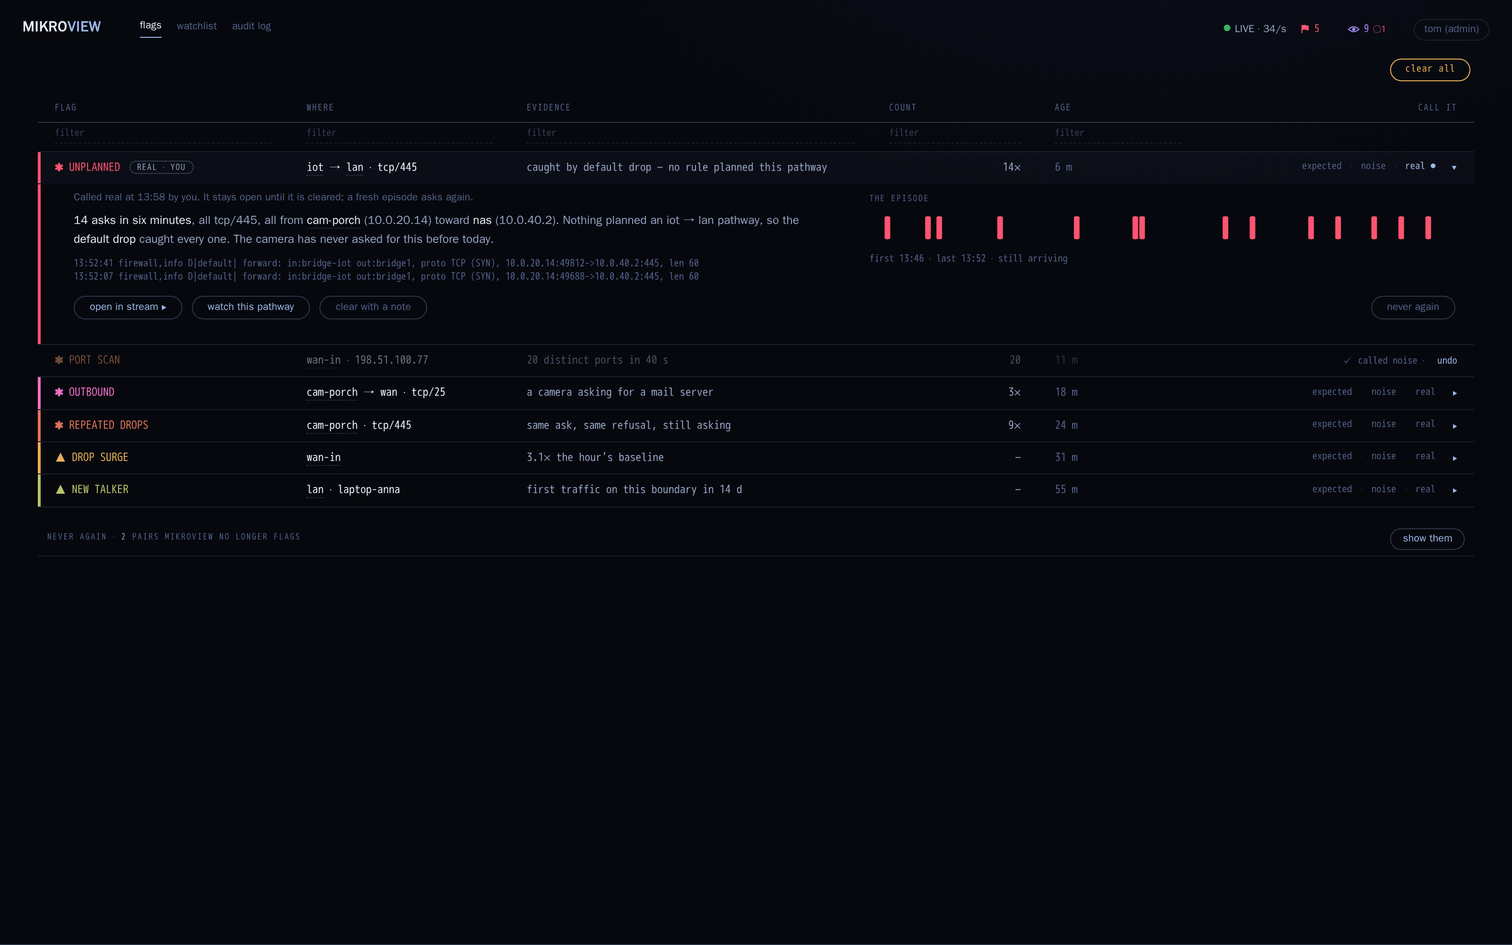
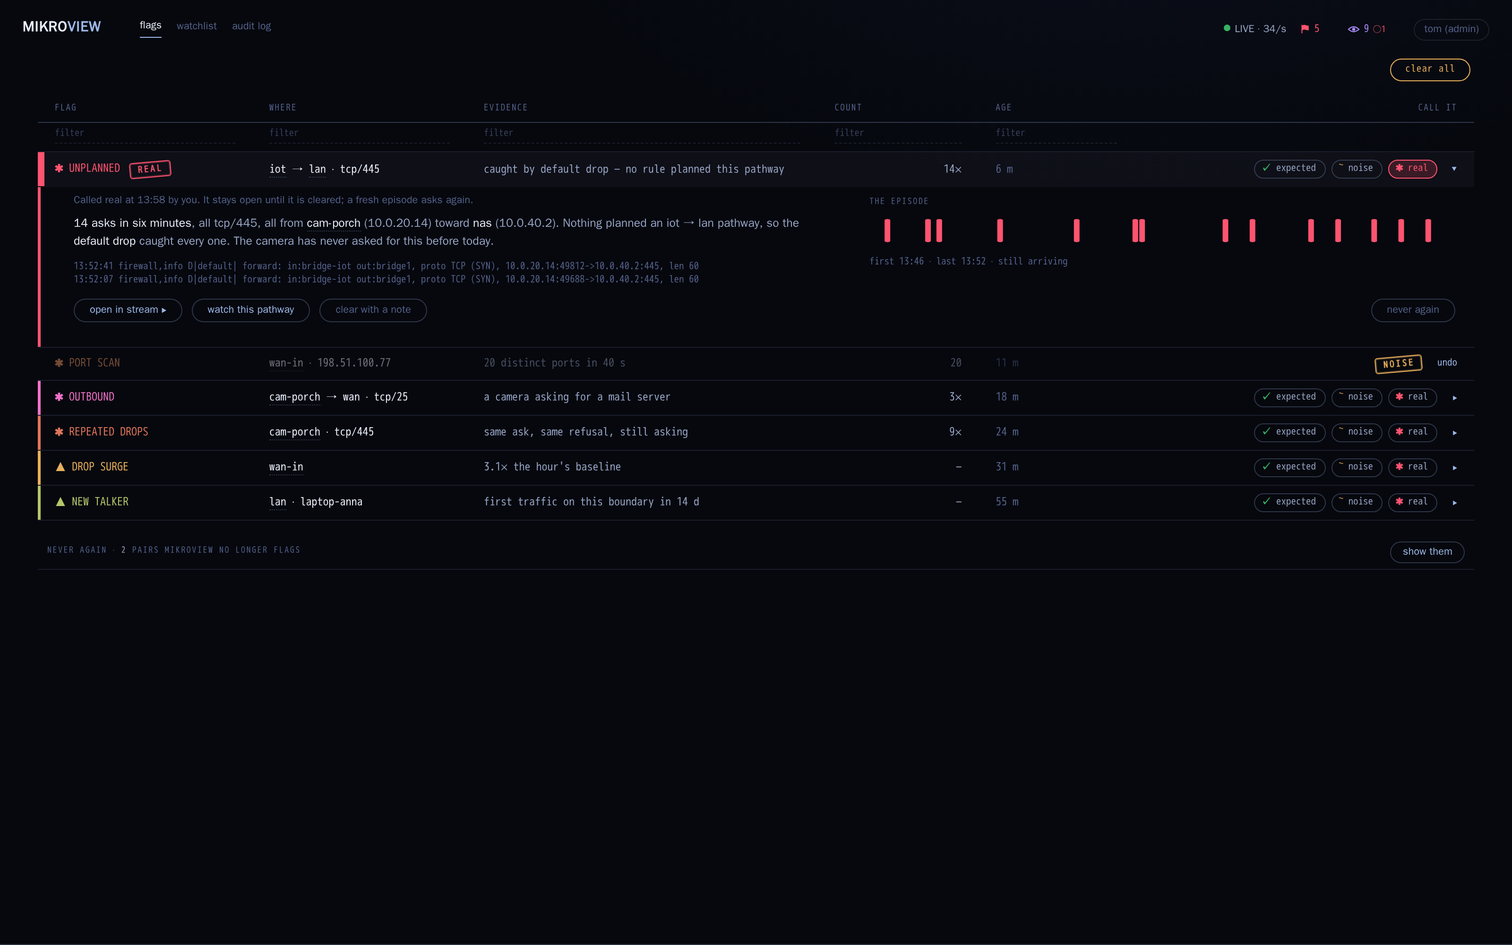
docs(design): round 35 — verdicts as glyph chips that land as stamps (#691)
Owner found the text verbs bland. Each verdict is now a chip in its own
ink (ok, now, alarm); a call thumps a tilted stamp onto the row in that
ink and flashes the row; real stamps beside the type and thickens the
row's bar; never again and cleared stamp in the quiet ink.

diff --git a/docs/design/concepts/round-35/verdicts-in-row.html b/docs/design/concepts/round-35/verdicts-in-row.html
@@ -658,17 +658,32 @@
      cleared; an exclusion is a verdict that outlives the flag
      ============================================================ */
   /* round 35: the verdict trio lives in the row, before the caret — one click, no drawer.
-     Three quiet verbs in the row's own mono, dot-separated like the chrome, lifted by the
-     row's hover and lit by the accent when chosen; no boxes — the docket speaks in text */
+     Three glyph chips in the verdict's own ink; a call lands as a stamp on the row */
   .panel td.vc { text-align: right; white-space: nowrap; }
-  .vrow { display: inline-flex; align-items: baseline; vertical-align: middle; margin-right: 18px; }
-  .vrow button.v { font: 10.5px var(--mono); color: var(--ink-3); background: transparent; border: 0; border-bottom: 1px dotted transparent; padding: 0; cursor: pointer; line-height: 16px; transition: color 0.15s; }
-  .vrow button.v + button.v::before { content: '·'; color: var(--ink-3); margin: 0 9px; opacity: 0.6; }
-  tr.frow:hover .vrow button.v { color: var(--ink-2); }
-  .vrow button.v:hover { color: var(--accent); border-bottom-color: var(--accent); }
-  .vrow button.v.on { color: var(--accent); }
-  .vrow button.v.on::after { content: ''; display: inline-block; width: 5px; height: 5px; border-radius: 50%; background: var(--accent); margin-left: 6px; vertical-align: 1px; }
   .panel th.vc { text-align: right; }
+  .vrow { display: inline-flex; gap: 6px; vertical-align: middle; margin-right: 16px; }
+  .vrow button.v { --vc: var(--ink-2); font: 10.5px var(--mono); color: var(--ink-2); background: transparent; border: 1px solid var(--hair-2); border-radius: 999px; padding: 1px 9px 1px 7px; cursor: pointer; line-height: 16px; transition: color 0.15s, border-color 0.15s, background 0.15s, transform 0.15s; }
+  .vrow button.v i { font-style: normal; color: var(--vc); margin-right: 5px; font-weight: 700; }
+  .vrow button.v.expected { --vc: var(--ok); }
+  .vrow button.v.noise { --vc: var(--now); }
+  .vrow button.v.real { --vc: var(--alarm); }
+  .vrow button.v:hover { color: var(--vc); border-color: var(--vc); background: color-mix(in srgb, var(--vc) 12%, transparent); transform: translateY(-1px); }
+  .vrow button.v.on { color: var(--vc); border-color: var(--vc); background: color-mix(in srgb, var(--vc) 18%, transparent); }
+  /* the stamp: a verdict pressed onto the docket in its own ink */
+  .stamp { --vc: var(--ink-3); display: inline-block; font: 800 9.5px var(--mono); letter-spacing: 0.2em; text-transform: uppercase; color: var(--vc); border: 1.5px solid var(--vc); border-radius: 3px; padding: 1px 7px 1px 8px; transform: rotate(-5deg); box-shadow: inset 0 0 0 1px color-mix(in srgb, var(--vc) 35%, transparent); animation: stamp-in 0.28s cubic-bezier(0.2, 1.6, 0.4, 1) both; vertical-align: middle; }
+  .stamp.expected { --vc: var(--ok); } .stamp.noise { --vc: var(--now); } .stamp.real { --vc: var(--alarm); }
+  @keyframes stamp-in { from { transform: rotate(-14deg) scale(2.1); opacity: 0; } 60% { opacity: 1; } to { transform: rotate(-5deg) scale(1); } }
+  /* the row takes the ink for a moment as the stamp lands */
+  tr.frow.struck td { animation: struck 0.7s ease-out both; }
+  @keyframes struck { from { background: color-mix(in srgb, var(--sc, var(--ink-3)) 16%, transparent); } }
+  tr.frow.struck.expected { --sc: var(--ok); } tr.frow.struck.noise { --sc: var(--now); } tr.frow.struck.real { --sc: var(--alarm); }
+  .vdone .by { color: var(--ink-3); margin-left: 8px; }
+  /* called real: the stamp sits by the type and the row's own bar thickens */
+  .fmark .stamp { margin-left: 10px; }
+  .fmark .by { font: 10.5px var(--mono); color: var(--ink-3); font-weight: 400; margin-left: 6px; }
+  tr.frow td:first-child { transition: box-shadow 0.35s ease; }
+  tr.frow.isreal td:first-child { box-shadow: inset 7px 0 0 var(--alarm) !important; }
+  @media (prefers-reduced-motion: reduce) { .stamp, tr.frow.struck td { animation: none; } .vrow button.v:hover { transform: none; } }
   .dwr-acts .never { margin-left: auto; }
   .dwr-acts .never.armed { color: var(--alarm); border-color: var(--alarm); }
   /* a flag that has been called: dims in place, keeps its row, offers undo until you leave the tab */
@@ -676,11 +691,10 @@
   tr.frow.fdone td:first-child { box-shadow: none !important; }
   tr.frow.fdone td:last-child { opacity: 1; }
   /* takes the trio's place in the same cell, so the columns never move for it */
-  .vdone { font: 10.5px var(--mono); color: var(--ink-3); white-space: nowrap; }
+  .vdone { font: 10.5px var(--mono); color: var(--ink-3); white-space: nowrap; display: inline-flex; align-items: center; gap: 8px; }
   .vdone a { color: var(--accent); cursor: pointer; margin-left: 8px; }
   .vdone a:hover { text-decoration: underline; }
   /* called real: stays open, and says so where the type is */
-  .fmark .real { font: 600 9px var(--mono); letter-spacing: 0.1em; text-transform: uppercase; color: var(--ink-2); border: 1px solid var(--hair-2); border-radius: 9px; padding: 0 7px; margin-left: 10px; vertical-align: 1px; }
   .story .called { display: block; color: var(--ink-3); font-size: 11px; margin-bottom: 6px; }
   /* the exclusions body: the type's ink is off — mikroview does not look at these */
   tr.fx .fmark { color: var(--ink-3) !important; }
@@ -723,7 +737,7 @@
     <table>
       <thead><tr><th>flag</th><th>where</th><th>evidence</th><th>count</th><th>age</th><th class="vc">call it</th></tr></thead>
       <tbody>
-        <tr class="frow ft-unplanned open" data-d="d1"><td class="fmark">✱ UNPLANNED</td><td class="k"><a class="wl" href="#s3" onclick="descend()">iot</a> → <a class="wl" href="#s3" onclick="descend()">lan</a> · tcp/445</td><td>caught by default drop — no rule planned this pathway</td><td class="num">14×</td><td class="t">6 m</td><td class="vc"><span class="vrow"><button class="v" data-v="expected">expected</button><button class="v" data-v="noise">noise</button><button class="v" data-v="real">real</button></span><span class="openc">▸</span></td></tr>
+        <tr class="frow ft-unplanned open" data-d="d1"><td class="fmark">✱ UNPLANNED</td><td class="k"><a class="wl" href="#s3" onclick="descend()">iot</a> → <a class="wl" href="#s3" onclick="descend()">lan</a> · tcp/445</td><td>caught by default drop — no rule planned this pathway</td><td class="num">14×</td><td class="t">6 m</td><td class="vc"><span class="vrow"><button class="v expected" data-v="expected"><i>✓</i>expected</button><button class="v noise" data-v="noise"><i>~</i>noise</button><button class="v real" data-v="real"><i>✱</i>real</button></span><span class="openc">▸</span></td></tr>
         <tr class="drawer open ft-unplanned" id="d1"><td colspan="6"><div class="dwr"><div class="dwr-in">
           <div class="story"><b>14 asks in six minutes</b>, all tcp/445, all from <a class="wl" href="#s3" onclick="descend()">cam-porch</a> (10.0.20.14) toward <b>nas</b> (10.0.40.2). Nothing planned an iot → lan pathway, so the <b>default drop</b> caught every one. The camera has never asked for this before today.</div>
           <div class="side"><span class="lab">the episode</span>
@@ -736,7 +750,7 @@
           <div class="dwr-acts"><button>open in stream ▸</button><button>watch this pathway</button><button class="quiet">clear with a note</button><button class="quiet never">never again</button></div>
         </div></div></td></tr>
 
-        <tr class="frow ft-portscan" data-d="d2"><td class="fmark">✱ PORT SCAN</td><td class="k"><a class="wl" href="#s3" onclick="descend()">wan-in</a> · 198.51.100.77</td><td>20 distinct ports in 40 s</td><td class="num">20</td><td class="t">11 m</td><td class="vc"><span class="vrow"><button class="v" data-v="expected">expected</button><button class="v" data-v="noise">noise</button><button class="v" data-v="real">real</button></span><span class="openc">▸</span></td></tr>
+        <tr class="frow ft-portscan" data-d="d2"><td class="fmark">✱ PORT SCAN</td><td class="k"><a class="wl" href="#s3" onclick="descend()">wan-in</a> · 198.51.100.77</td><td>20 distinct ports in 40 s</td><td class="num">20</td><td class="t">11 m</td><td class="vc"><span class="vrow"><button class="v expected" data-v="expected"><i>✓</i>expected</button><button class="v noise" data-v="noise"><i>~</i>noise</button><button class="v real" data-v="real"><i>✱</i>real</button></span><span class="openc">▸</span></td></tr>
         <tr class="drawer ft-portscan" id="d2"><td colspan="6"><div class="dwr"><div class="dwr-in">
           <div class="story"><b>One source, twenty doors.</b> 198.51.100.77 walked ports 1000–1019 in forty seconds, every knock refused at the wan boundary. Known scanner ranges say nothing about this address; the blocklist does not carry it.</div>
           <div class="side"><span class="lab">the episode</span>
@@ -749,7 +763,7 @@
           <div class="dwr-acts"><button>open in stream ▸</button><button>watch this source</button><button class="quiet">clear with a note</button><button class="quiet never">never again</button></div>
         </div></div></td></tr>
 
-        <tr class="frow ft-outbound" data-d="d3"><td class="fmark">✱ OUTBOUND</td><td class="k"><a class="wl" href="#s3" onclick="descend()">cam-porch</a> → wan · tcp/25</td><td>a camera asking for a mail server</td><td class="num">3×</td><td class="t">18 m</td><td class="vc"><span class="vrow"><button class="v" data-v="expected">expected</button><button class="v" data-v="noise">noise</button><button class="v" data-v="real">real</button></span><span class="openc">▸</span></td></tr>
+        <tr class="frow ft-outbound" data-d="d3"><td class="fmark">✱ OUTBOUND</td><td class="k"><a class="wl" href="#s3" onclick="descend()">cam-porch</a> → wan · tcp/25</td><td>a camera asking for a mail server</td><td class="num">3×</td><td class="t">18 m</td><td class="vc"><span class="vrow"><button class="v expected" data-v="expected"><i>✓</i>expected</button><button class="v noise" data-v="noise"><i>~</i>noise</button><button class="v real" data-v="real"><i>✱</i>real</button></span><span class="openc">▸</span></td></tr>
         <tr class="drawer ft-outbound" id="d3"><td colspan="6"><div class="dwr"><div class="dwr-in">
           <div class="story"><b>A camera asking for a mail server.</b> Three connection attempts to port 25 on three different external hosts. Cameras do not send mail; things that have been taken over do. Refused each time by the iot egress rule.</div>
           <div class="side"><span class="lab">the episode</span>
@@ -759,7 +773,7 @@
           <div class="dwr-acts"><button>open in stream ▸</button><button>watch this pathway</button><button class="quiet">clear with a note</button><button class="quiet never">never again</button></div>
         </div></div></td></tr>
 
-        <tr class="frow ft-repeat" data-d="d4"><td class="fmark">✱ REPEATED DROPS</td><td class="k"><a class="wl" href="#s3" onclick="descend()">cam-porch</a> · tcp/445</td><td>same ask, same refusal, still asking</td><td class="num">9×</td><td class="t">24 m</td><td class="vc"><span class="vrow"><button class="v" data-v="expected">expected</button><button class="v" data-v="noise">noise</button><button class="v" data-v="real">real</button></span><span class="openc">▸</span></td></tr>
+        <tr class="frow ft-repeat" data-d="d4"><td class="fmark">✱ REPEATED DROPS</td><td class="k"><a class="wl" href="#s3" onclick="descend()">cam-porch</a> · tcp/445</td><td>same ask, same refusal, still asking</td><td class="num">9×</td><td class="t">24 m</td><td class="vc"><span class="vrow"><button class="v expected" data-v="expected"><i>✓</i>expected</button><button class="v noise" data-v="noise"><i>~</i>noise</button><button class="v real" data-v="real"><i>✱</i>real</button></span><span class="openc">▸</span></td></tr>
         <tr class="drawer ft-repeat" id="d4"><td colspan="6"><div class="dwr"><div class="dwr-in">
           <div class="story"><b>Same ask, same refusal, still asking.</b> Nine identical attempts, one every couple of minutes — machine-regular, not a person retrying. This is the older sibling of the UNPLANNED flag above; opening either shows the same pathway.</div>
           <div class="side"><span class="lab">the episode</span>
@@ -769,7 +783,7 @@
           <div class="dwr-acts"><button>open in stream ▸</button><button>watch this pathway</button><button class="quiet">clear with a note</button><button class="quiet never">never again</button></div>
         </div></div></td></tr>
 
-        <tr class="frow ft-surge" data-d="d5"><td class="fmark">▲ DROP SURGE</td><td class="k"><a class="wl" href="#s3" onclick="descend()">wan-in</a></td><td>3.1× the hour's baseline</td><td class="num">—</td><td class="t">31 m</td><td class="vc"><span class="vrow"><button class="v" data-v="expected">expected</button><button class="v" data-v="noise">noise</button><button class="v" data-v="real">real</button></span><span class="openc">▸</span></td></tr>
+        <tr class="frow ft-surge" data-d="d5"><td class="fmark">▲ DROP SURGE</td><td class="k"><a class="wl" href="#s3" onclick="descend()">wan-in</a></td><td>3.1× the hour's baseline</td><td class="num">—</td><td class="t">31 m</td><td class="vc"><span class="vrow"><button class="v expected" data-v="expected"><i>✓</i>expected</button><button class="v noise" data-v="noise"><i>~</i>noise</button><button class="v real" data-v="real"><i>✱</i>real</button></span><span class="openc">▸</span></td></tr>
         <tr class="drawer ft-surge" id="d5"><td colspan="6"><div class="dwr"><div class="dwr-in">
           <div class="story"><b>The wan boundary is refusing 3.1× more than usual for this hour.</b> No single source dominates — it is a broad rise, the shape background scanning takes. Nothing inside answered anything.</div>
           <div class="side"><span class="lab">the hour against its baseline</span>
@@ -779,7 +793,7 @@
           <div class="dwr-acts"><button>open in metrics ▸</button><button class="quiet">clear with a note</button><button class="quiet never">never again</button></div>
         </div></div></td></tr>
 
-        <tr class="frow ft-talker" data-d="d6"><td class="fmark">▲ NEW TALKER</td><td class="k"><a class="wl" href="#s3" onclick="descend()">lan</a> · laptop-anna</td><td>first traffic on this boundary in 14 d</td><td class="num">—</td><td class="t">55 m</td><td class="vc"><span class="vrow"><button class="v" data-v="expected">expected</button><button class="v" data-v="noise">noise</button><button class="v" data-v="real">real</button></span><span class="openc">▸</span></td></tr>
+        <tr class="frow ft-talker" data-d="d6"><td class="fmark">▲ NEW TALKER</td><td class="k"><a class="wl" href="#s3" onclick="descend()">lan</a> · laptop-anna</td><td>first traffic on this boundary in 14 d</td><td class="num">—</td><td class="t">55 m</td><td class="vc"><span class="vrow"><button class="v expected" data-v="expected"><i>✓</i>expected</button><button class="v noise" data-v="noise"><i>~</i>noise</button><button class="v real" data-v="real"><i>✱</i>real</button></span><span class="openc">▸</span></td></tr>
         <tr class="drawer ft-talker" id="d6"><td colspan="6"><div class="dwr"><div class="dwr-in">
           <div class="story"><b>laptop-anna spoke for the first time in fourteen days.</b> Ordinary browsing shape, all accepted. New-talker flags exist so a quiet name reappearing is a thing you saw, not a thing that slipped by.</div>
           <div class="side"><span class="lab">first minutes</span>
@@ -1371,14 +1385,18 @@
     function typeOf(r) { return r.querySelector('.fmark').firstChild.textContent.trim().replace(/^[✱▲] /, ''); }
     function close(r) { r.classList.remove('open'); document.getElementById(r.dataset.d).classList.remove('open'); }
     // a called flag dims where it is; undo puts it back exactly
-    var TRIO = '<span class="vrow"><button class="v" data-v="expected">expected</button><button class="v" data-v="noise">noise</button><button class="v" data-v="real">real</button></span><span class="openc">▸</span>';
-    function done(r, text, undo) {
-      close(r); r.classList.add('fdone');
+    var TRIO = '<span class="vrow"><button class="v expected" data-v="expected"><i>✓</i>expected</button><button class="v noise" data-v="noise"><i>~</i>noise</button><button class="v real" data-v="real"><i>✱</i>real</button></span><span class="openc">▸</span>';
+    function strike(r, kind) {
+      r.classList.remove('struck', 'expected', 'noise', 'real'); void r.offsetWidth;
+      r.classList.add('struck', kind);
+    }
+    function done(r, kind, text, after, undo) {
+      close(r); r.classList.add('fdone'); strike(r, kind);
       var c = r.cells[5];
-      c.innerHTML = '<span class="vdone">✓ ' + text + (undo ? ' · <a>undo</a>' : '') + '</span>';
+      c.innerHTML = '<span class="vdone"><span class="stamp ' + kind + '">' + text + '</span>' + (after ? '<span class="by">' + after + '</span>' : '') + (undo ? '<a>undo</a>' : '') + '</span>';
       if (undo) c.querySelector('a').addEventListener('click', function (e) {
         e.stopPropagation();
-        r.classList.remove('fdone'); c.innerHTML = TRIO;
+        r.classList.remove('fdone', 'struck', kind); c.innerHTML = TRIO;
         fcount();
       });
       fcount();
@@ -1392,14 +1410,16 @@
         if (v === 'real') {
           var on = !b.classList.contains('on');
           r.querySelectorAll('.v').forEach(function (x) { x.classList.toggle('on', on && x === b); });
-          var fm = r.querySelector('.fmark'), tag = fm.querySelector('.real');
-          if (on && !tag) fm.insertAdjacentHTML('beforeend', '<span class="real">real · you</span>'); else if (!on && tag) tag.remove();
+          var fm = r.querySelector('.fmark'), tag = fm.querySelector('.stamp');
+          r.classList.toggle('isreal', on);
+          if (on) { strike(r, 'real'); if (!tag) fm.insertAdjacentHTML('beforeend', '<span class="stamp real">real</span>'); }
+          else { r.classList.remove('struck', 'real'); if (tag) tag.remove(); }
           var st = d.querySelector('.story'), c = st.querySelector('.called');
           if (on && !c) st.insertAdjacentHTML('afterbegin', '<span class="called">Called real at 13:58 by you. It stays open until it is cleared; a fresh episode asks again.</span>');
           else if (!on && c) c.remove();
           return;
         }
-        done(r, 'called ' + v, true);
+        done(r, v, v, '', true);
       });
     });
     function disarmAll() {
@@ -1416,11 +1436,11 @@
             return;
           }
           b.classList.remove('armed'); b.textContent = 'never again';
-          done(r, 'never again · listed below', false);
+          done(r, 'never', 'never again', '', false);
           addExcl(r);
           return;
         }
-        if (b.classList.contains('quiet') && /^clear/.test(b.textContent)) done(r, 'cleared', true);
+        if (b.classList.contains('quiet') && /^clear/.test(b.textContent)) done(r, 'cleared', 'cleared', '', true);
       });
     });
     document.addEventListener('click', function (e) { if (!e.target.closest('.never')) disarmAll(); }, true);
@@ -1452,7 +1472,7 @@
       var nr = document.createElement('tr'), nd = document.createElement('tr');
       nr.className = 'frow fx ' + Array.prototype.filter.call(r.classList, function (c) { return /^ft-/.test(c); }).join(' ');
       nr.dataset.d = id;
-      nr.innerHTML = '<td class="fmark">' + type + '</td><td class="k">' + where + '</td><td>never again — just now, you</td><td class="num">—</td><td class="t">now</td><td><span class="openc">▸</span></td>';
+      nr.innerHTML = '<td class="fmark">' + type + '</td><td class="k">' + where + '</td><td>never again — just now, you</td><td class="num">—</td><td class="t">now</td><td class="vc"><span class="openc">▸</span></td>';
       nd.className = 'drawer fx'; nd.id = id;
       nd.innerHTML = '<td colspan="6"><div class="dwr"><div class="dwr-in"><div class="story"><b>Told never to flag this again</b> just now, by you. Nothing about the pair is counted or held now — mikroview simply does not look. The audit log has this line.</div>'
         + '<div class="side"><span class="lab">the pair</span><ul class="seen facts"><li><span>flag</span><b>' + typeOf(r) + '</b></li><li><span>target</span><b>' + r.cells[1].textContent.trim() + '</b></li><li><span>since</span><b>13:58</b></li><li><span>by</span><b>you</b></li></ul></div>'

diff --git a/docs/design/concepts/round-35/README.md b/docs/design/concepts/round-35/README.md
@@ -13,27 +13,31 @@ exclusion is a verdict that outlives the flag** — and gains a corollary:
 ## What moved
 
 1. **The trio is the row's last cell**, before the caret, under its
-   own column head `CALL IT`: `expected · noise · real` as three quiet
-   verbs in the row's mono at `ink-3`, dot-separated the way the chrome
-   is. No boxes — the docket speaks in text and dotted underlines, and
-   three boxed pills a row were the heaviest thing on the page. The
-   row's hover lifts them to `ink-2`; a verb's own hover takes the
-   accent and the where-link's dotted underline; the chosen one keeps
-   the accent with a small filled dot after it. No filter under this
-   head: verdicts are given, not searched. A click on a verb is a
-   verdict and never toggles the drawer (`closest('a, button')` in the
-   row's click guard). `POST /api/flags/{id}/verdict {verdict}`.
-2. **Called expected or noise** dims the row where it stands, and the
-   cell the trio occupied now reads `✓ called noise · undo` — the
-   column never moves. `undo` puts the trio back.
-3. **Called real** lights the `real` pill, marks the type
-   `✱ UNPLANNED  REAL · YOU`, and the story leads with *Called real at
-   13:58 by you…* whether or not the drawer is open.
+   own column head `CALL IT`: three glyph chips, each in its verdict's
+   own ink — `✓ expected` in the ok green, `~ noise` in the amber the
+   docket uses for *now*, `✱ real` in the alarm ink the flag mark wears.
+   Hover fills a chip with a wash of its colour and lifts it a pixel.
+   No filter under this head: verdicts are given, not searched. A click
+   on a chip is a verdict and never toggles the drawer
+   (`closest('a, button')` in the row's click guard).
+   `POST /api/flags/{id}/verdict {verdict}`.
+2. **A verdict lands as a stamp.** This is a docket, so a call is
+   pressed onto it: the chip's word becomes a small tilted rubber stamp
+   in the same ink — `NOISE`, `EXPECTED` — thumping in at twice its size
+   (`stamp-in`, 280 ms, overshoot) while the row flashes a wash of that
+   colour and settles dim. The stamp takes the trio's place in the same
+   cell, with `undo` beside it, so the columns never move. `undo` puts
+   the trio back. `clear with a note` stamps `CLEARED` in the quiet ink.
+3. **Called real** stamps `REAL` beside the flag's type in alarm ink,
+   thickens the row's own colour bar from 3 px to 7 px, lights the
+   `✱ real` chip, and the story leads with *Called real at 13:58 by
+   you…* whether or not the drawer is open. The flag stays open.
 4. **`never again`** stays in the drawer, now alone at the right of the
    action row: it is the one verdict that wants a second look and a
    confirm, and the drawer is where the evidence is. Its arm-then-
-   confirm, the exclusions body and `let it fire again` are round 34's,
-   unchanged.
+   confirm is round 34's; done, it stamps `NEVER AGAIN` in the quiet
+   ink and the pair appears in the exclusions body below, which with
+   `let it fire again` is unchanged.
 
 Nothing else changes: the row's columns keep their order, the drawer's
 `open in stream ▸ · watch this pathway · clear with a note` are round
@@ -48,13 +52,16 @@ round 34's README still apply.
 `let-it-fire-again`. Calls in `called-noise` and `called-expected` are
 made with the drawer closed.
 
-No new data palette: the verbs are the row's own mono in `ink-3`,
-`ink-2` and the accent — the dataviz validator has nothing new to
-check.
+Palette: the three verdict inks are existing tokens — `--ok`, `--now`,
+`--alarm` — used here for the first time as a trio side by side; the
+dataviz validator has nothing new to check, but the build should keep
+the three as tokens, not literals. `prefers-reduced-motion` turns off
+the stamp, the flash and the hover lift.
 
 ## Verdicts
 
 2026-09-01, owner, on the first cut (three bordered pills a row): "Could
 we make this more aesthetically pleasing in keeping with Mikroview's new
-UI?" — reworked in place to the quiet text verbs above, before any
-acceptance.
+UI?" — reworked in place to quiet dot-separated text verbs. Owner:
+"Very bland... was hoping for something cooler." — reworked again to
+the glyph chips and stamps above, before any acceptance.
